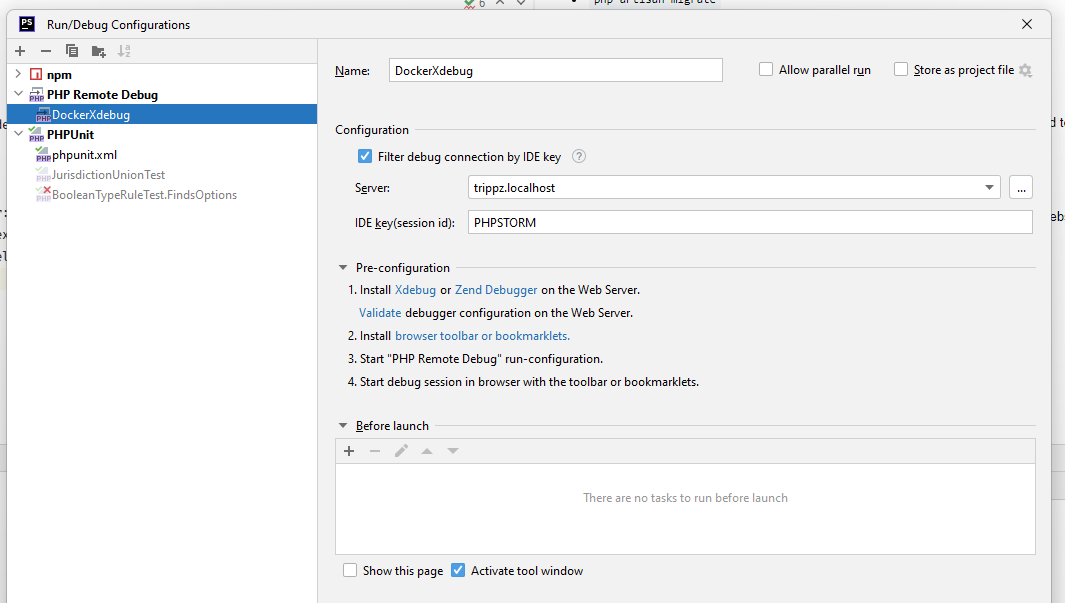
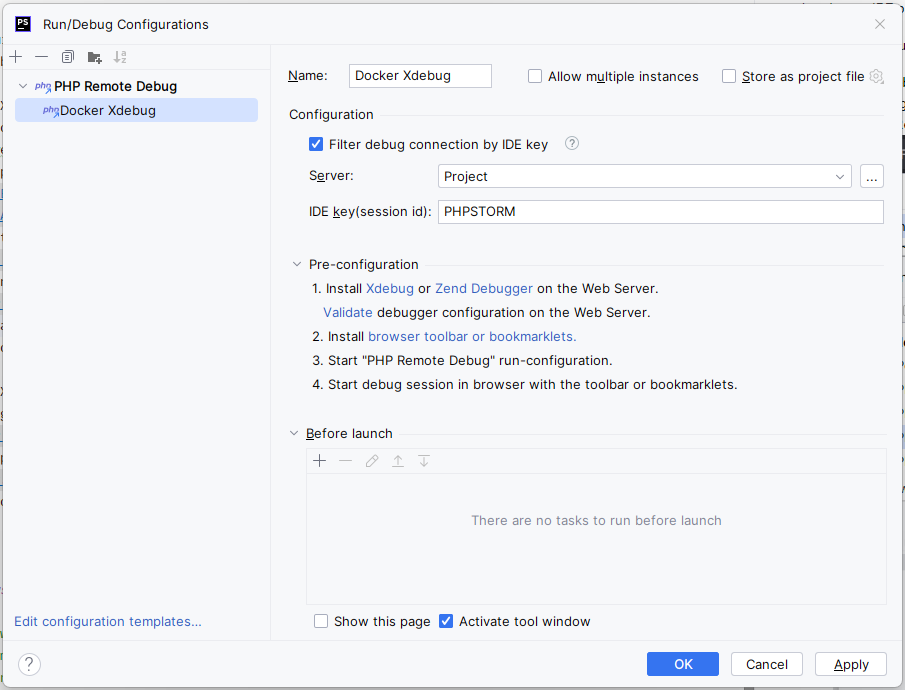
Optimize Xdebug readme section

diff --git a/README.md b/README.md
@@ -29,8 +29,15 @@ To use Xdebug in your browser:
 * Download a Xdebug browser extension ([example](https://chrome.google.
   com/webstore/detail/xdebug-helper/eadndfjplgieldjbigjakmdgkmoaaaoc));
 * Set up a "PHP Remote Debug" configuration in the "Run/Debug Configuration" menu;
+  1. ![Edit configurations](docs/images/edit-configurations.png)
+  2. ![Add new configuration](docs/images/add-new-configuration.png)
+  3. Set up a new server if it doesn't exist yet:
+  ![Set up a new server](docs/images/set-up-new-server.png)
+  4. Configure the PHP Remote Debug configuration for Xdebug:
   ![PHP Remote Debug configuration for Xdebug](docs/images/php-remote-debug-configuration.png)
 * Activate the "Start listenig for PHP Debug Connections" toggle;
+  
+  ![Xdebug listener toggle](docs/images/xdebug-listener-toggle.png)
 * Set some breakpoints in the code and browse to the website.
 
 To use Xdebug with PHPUnit:
